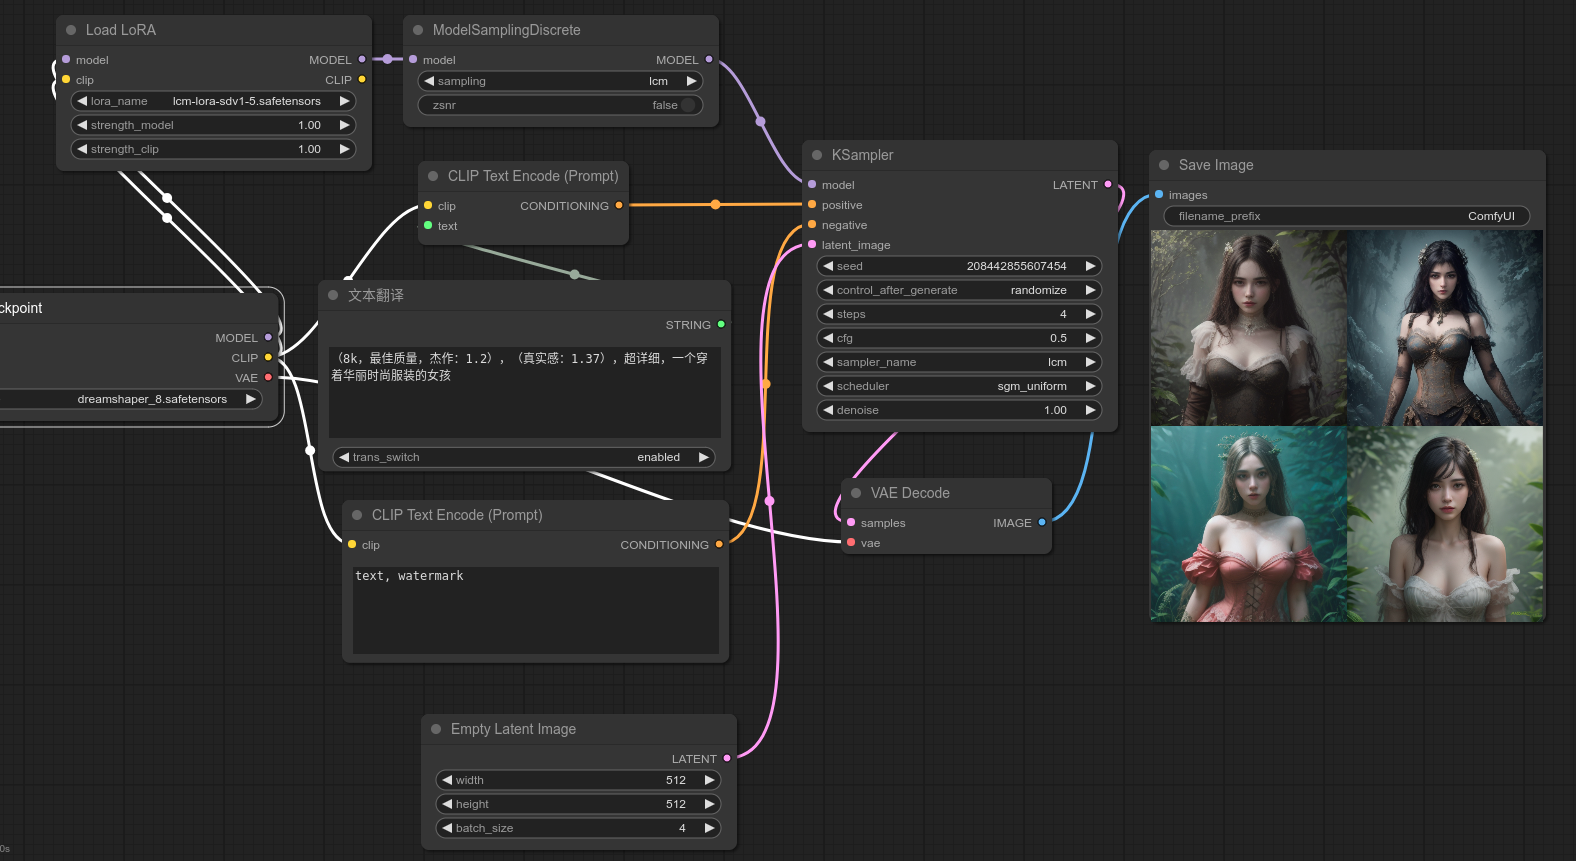
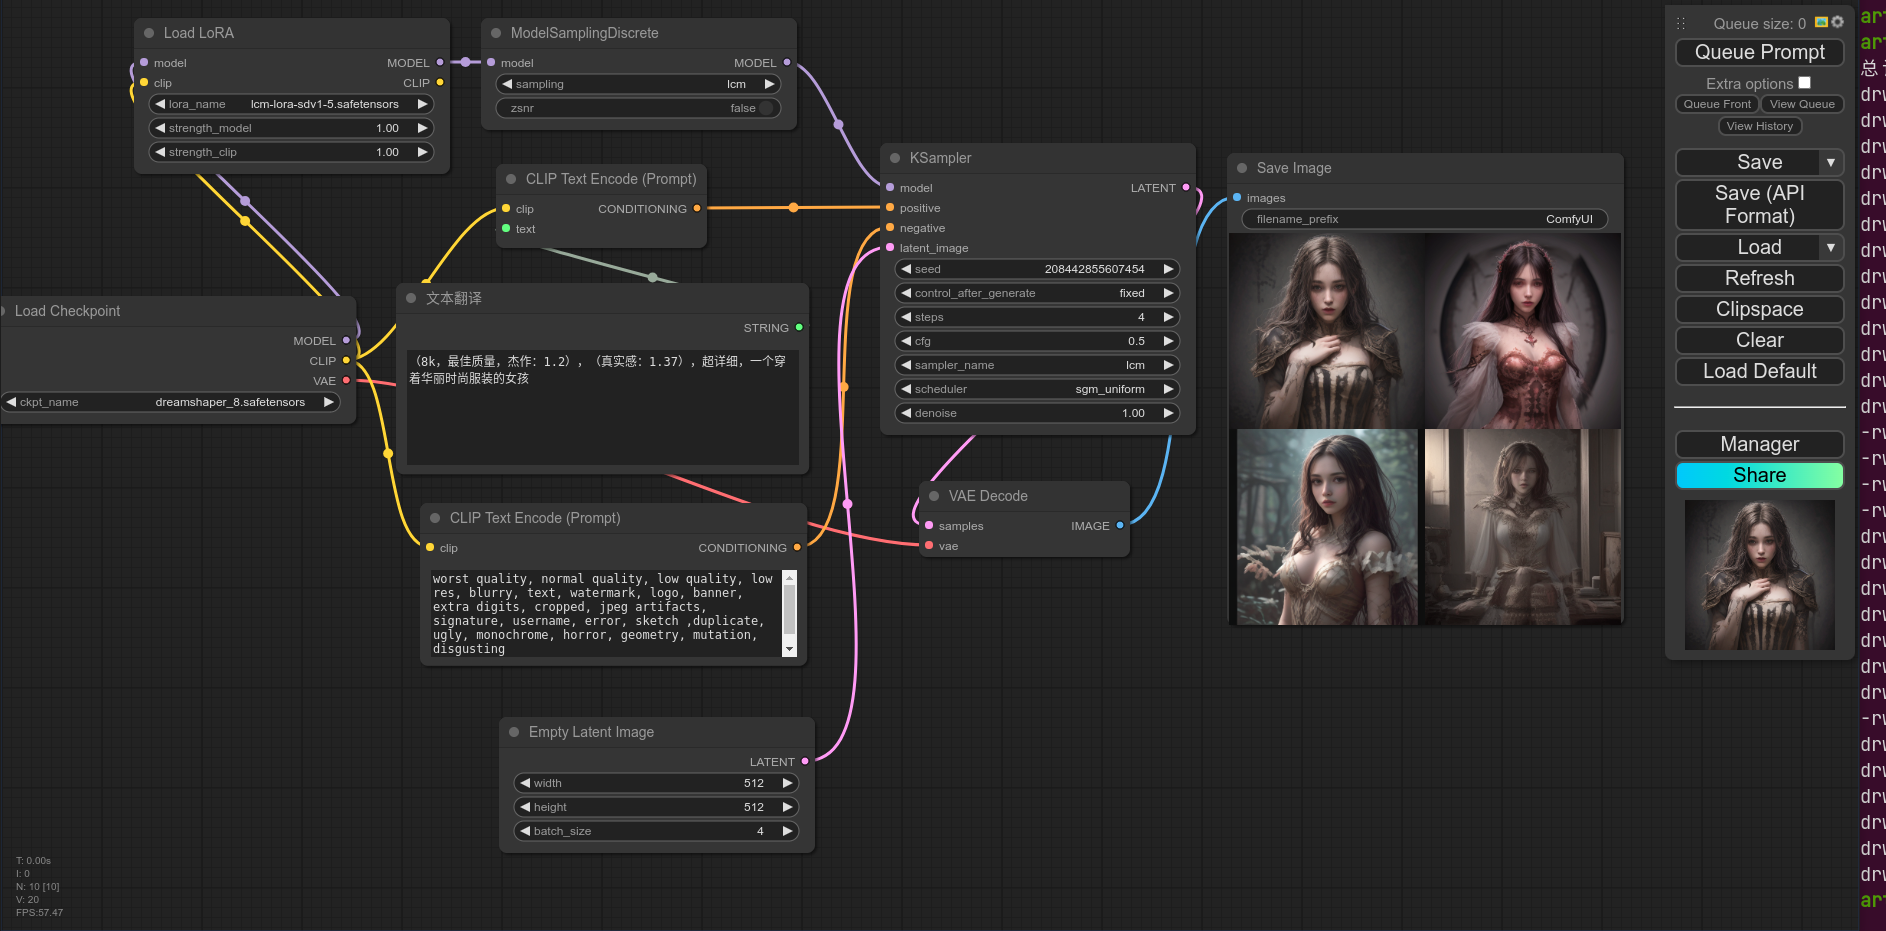
优化

diff --git a/node/translator.py b/node/translator.py
@@ -123,7 +123,7 @@ class PromptTextTranslation:
         return {
             "required": {
                 "text_trans": ("STRING", {"multiline": True, "default": "海边，日出"}),
-                "trans_switch": (["enabled", "disabled"],),
+                # "trans_switch": (["enabled", "disabled"],),
             },
         }
 
@@ -131,7 +131,7 @@ class PromptTextTranslation:
     FUNCTION = "translation"
     CATEGORY = "utils"
 
-    def translation(self, text_trans, trans_switch, ):
+    def translation(self, text_trans, ):
 
         if text_trans == "undefined":
             text_trans = ""
@@ -145,7 +145,8 @@ class PromptTextTranslation:
         cache = load_csv(my_translations)
 
 
-        if trans_switch == "enabled" and contains_chinese(text_trans):
+        # if trans_switch == "enabled" and contains_chinese(text_trans):
+        if contains_chinese(text_trans):
             text_trans = remove_unnecessary_spaces(text_trans)
             modified_text = replace_text(text_trans, cache)
             target_text = process_text(modified_text)

diff --git a/README.md b/README.md
@@ -1,5 +1,5 @@
 # ComfyUI-Prompt-Translator-diy
-ComfyUI 通过语言模型自动翻译 Prompt 为中文提示词插件。
+ComfyUI 通过语言模型自动翻译 Prompt 为中文提示词插件。自动识别中文,兼容英文。
 
 增加了自定义的字典 .(translations.csv),使翻译后的结果更能贴合stablediffusion模型的语句习惯!
 
